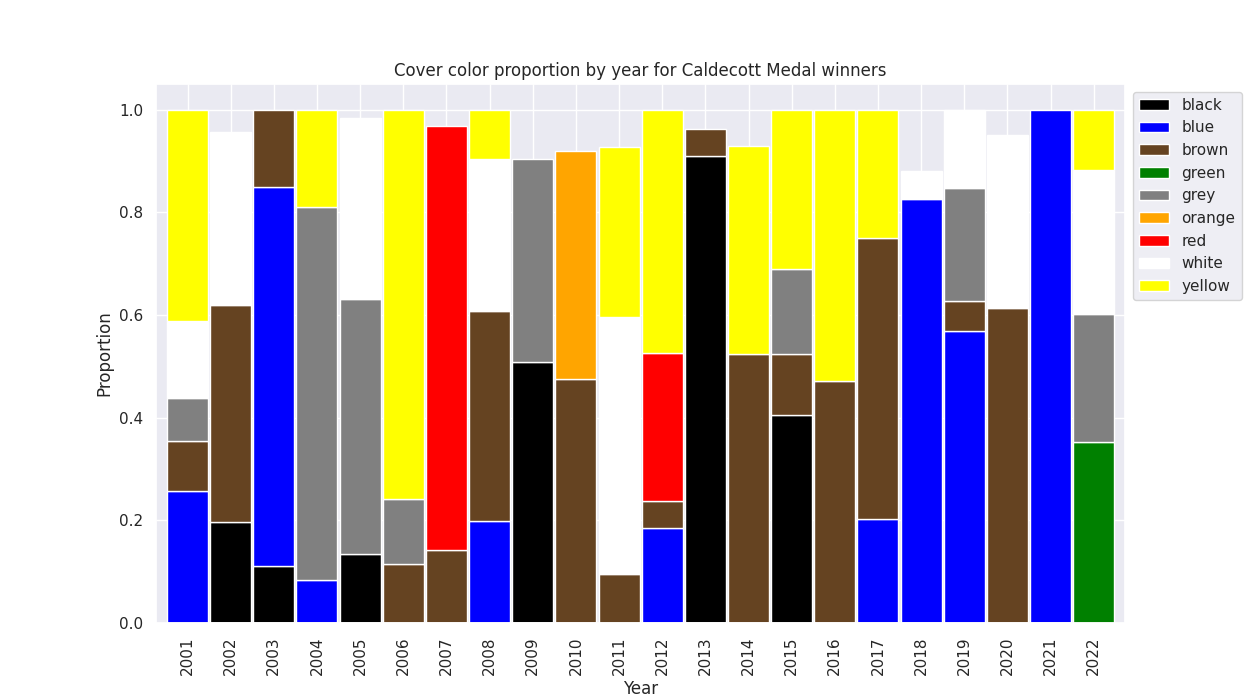
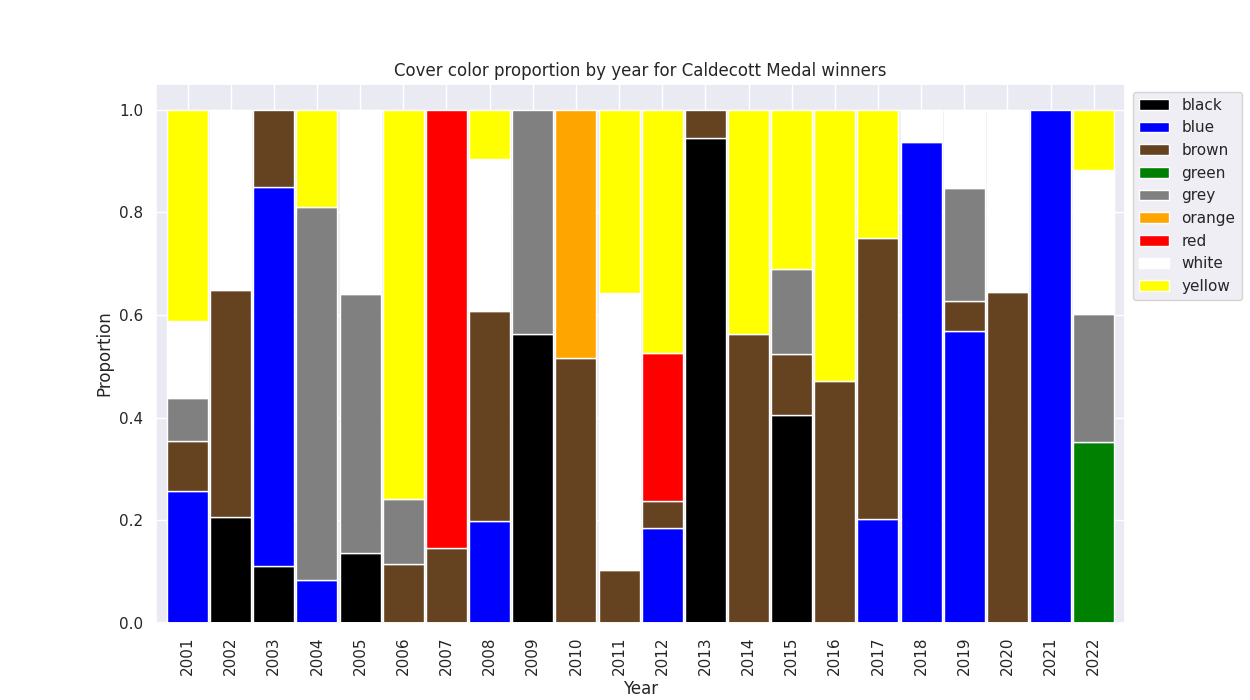
better handling proportions that do not add to 1

diff --git a/make_figure.py b/make_figure.py
@@ -11,9 +11,11 @@ colors[['year', 'title']] = colors['book'].str.split("_",1,expand=True)
 
 colors = pd.DataFrame(colors.groupby(["year", "color"])["proportion"].sum())
 
-colors_1 = colors.reset_index()
+colors['pct'] = colors.groupby(['year'])["proportion"].transform('sum')
+colors['total_pct'] = colors['proportion']/colors['pct']
 
-colors_wide = pd.pivot(colors_1, index="year", columns = "color", values ="proportion")
+colors_1 = colors.reset_index()
+colors_wide = pd.pivot(colors_1, index="year", columns = "color", values="total_pct")
 
 colors_wide1 = colors_wide.reset_index()
 
